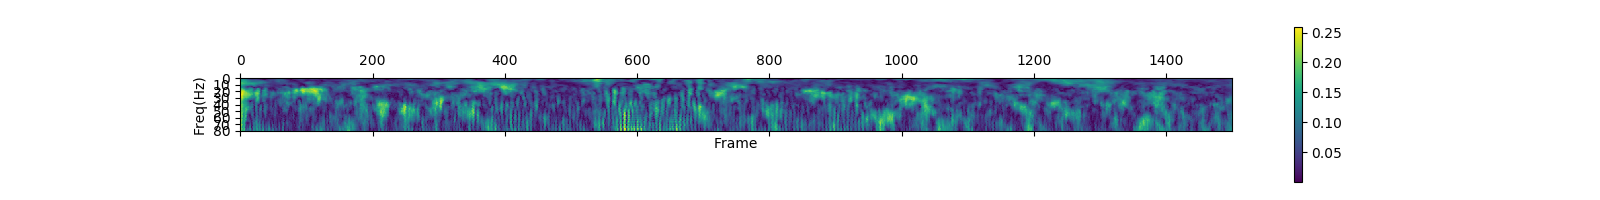
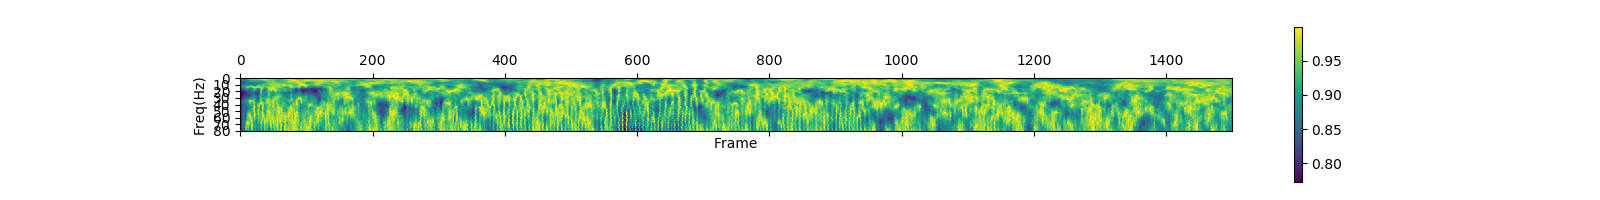
add rayleigh test and edit readme

diff --git a/pyplfv/plf.py b/pyplfv/plf.py
@@ -6,15 +6,32 @@ Please see the document if you want more details.
 
 import numpy as np
 from data_structures import EEGData
+
 '''
-TODO implement test
 To test whether an activity is significantly phase-locked to stimulus onset,
 a statistical test (Rayleigh test) of uniformity of angle is used (Jervis et al., 1983)
 http://q-bio.jp/images/5/53/角度統計配布_qbio4th.pdf
 http://www.neurophys.wisc.edu/comp/docs/not011/not011.html
 https://docs.scipy.org/doc/scipy-0.14.0/reference/generated/scipy.stats.rayleigh.html
+http://webspace.ship.edu/pgmarr/Geo441/Lectures/Lec%2016%20-%20Directional%20Statistics.pdf
+
+R := The averaged
+Z := n * (R^2)
 '''
 
+def rayleigh_p(Z, n):
+    Z_2 = np.power(Z, 2.0)
+    Z_3 = np.power(Z, 3.0)
+    Z_4 = np.power(Z, 4.0)
+    n_2 = np.power(n, 2.0)
+    f_term = 1.0
+    s_term = (2.0 * Z - Z_2) / (4.0 * n)
+    t_term  = (24.0 * Z - 132.0 * Z_2 + 76.0 * Z_3 - 9.0 * Z_4) / (288.0 * n_2)
+    return  np.exp(-Z) * (f_term + s_term - t_term)
+
+'''
+Wavelet and parameters of that.
+'''
 def gen_parameters(f, debug=False):
     '''
     Constant ratio f0/sigma_f = 7
@@ -95,6 +112,8 @@ Leadning to a complex value describing the phase distribution of the time-frew r
 start_time_of_trials : the index of start timing of trials on signal array
 offset: How many frame are considered to have relevant with trials before that.
 length: How many frame are considered to have relevant with trials.
+
+plf returns the normalized_tve_average and p values about it.
 '''
 
 def plf(signal, time_interval, f0, start_time_of_trials, offset, length, debug=False):
@@ -106,31 +125,64 @@ def plf(signal, time_interval, f0, start_time_of_trials, offset, length, debug=F
         sig = signal[trial + offset : trial + offset + length]
         normalized_tve_average += normalized_tve(sig, time_interval, f0) / len(start_time_of_trials)
 
-    #Transform to the modules of these complex values.
-    return np.abs(normalized_tve_average)
+    ## testing these p value
+    p_arr = []
+    n = len(start_time_of_trials)
+    for i in range(length):
+        R = np.abs(normalized_tve_average[i])
+        Z = n * np.power(R, 2.0)
+        p = rayleigh_p(Z, n)
+        p_arr.append(p)
+
+    return [np.abs(normalized_tve_average), np.array(p_arr)]
 
 def plf_with_farray(signal, time_interval, farray, start_time_of_trials, offset, length, debug=False):
 
-    res_arr = []
+    plf_arr, p_arr = [[], []]
     for f in farray:
-        res_arr.append(plf(signal, time_interval, f, start_time_of_trials, offset, length, debug))
-    return res_arr
+        _plf, _p = plf(signal, time_interval, f, start_time_of_trials, offset, length, debug)
+        plf_arr.append(_plf)
+        p_arr.append(_p)
+    return [plf_arr, p_arr]
 
-def show_plf_spectgram(eeg_data, sig_name, trial_marker, farray, offset, length, save=False, filename='~/plf.png'):
-    sig = eeg_data.signals[sig_name]
-    import matplotlib.pyplot as plt
+def show_plf_spectgram(sig, time_interval, start_time_of_trials, farray, offset, length, show_p=False, save=False, filename='.plf.png'):
 
-    _plf = plf_with_farray(sig,
-                          eeg_data.properties.sampling_interval / 1000000,
+    _plf, _ps = plf_with_farray(sig,
+                          time_interval,
                           farray,
-                          [eeg_data.markers[i].position for i in range(len(eeg_data.markers)) if eeg_data.markers[i].description == trial_marker],
+                          start_time_of_trials,
                           offset,
                           length)
-    plt.matshow(_plf)
-    plt.xlabel('Frame')
-    plt.ylabel('Freq(Hz)')
-    plt.colorbar()
-    if save:
-        plt.savefig(filename)
-    plt.show()
-    return np.array(_plf)
+    import matplotlib.pyplot as plt
+    if show_p:
+        fig, (axu, axl) = plt.subplots(nrows=2, figsize=(10,5))
+        matu =  axu.matshow(_plf)
+        axu.set_title('PLF')
+        axu.set_xlabel('Frame')
+        axu.set_ylabel('Freq(Hz)')
+        #axu.colorbar()
+
+        matl = axl.matshow(_ps)
+        axl.set_title('P values')
+        axl.set_xlabel('Frame')
+        axl.set_ylabel('Freq(Hz)')
+
+        fig.subplots_adjust(right=0.8)
+        cbar_ax = fig.add_axes([0.85, 0.15, 0.05, 0.7])
+        fig.colorbar(matu, cbar_ax)
+        if save:
+            plt.savefig(filename)
+        plt.show()
+    else:
+        plt.matshow(_plf)
+        plt.colorbar()
+        plt.xlabel('Frame')
+        plt.ylabel('Freq')
+        plt.show()
+    return [np.array(_plf), np.array(_ps)]
+
+def show_plf_spectgram_from_eeg(eeg_data, sig_name, trial_marker, farray, offset, length, show_p=False, save=False, filename='./plf.png'):
+    sig = eeg_data.signals[sig_name]
+    start_time_of_trials = [eeg_data.markers[i].position for i in range(len(eeg_data.markers)) if eeg_data.markers[i].description == trial_marker]
+    time_interval = eeg_data.properties.sampling_interval / 1000000
+    return show_plf_spectgram(sig, time_interval, start_time_of_trials, farray, offset, length, show_p, save, filename)

diff --git a/pyplfv/plf_samples.py b/pyplfv/plf_samples.py
@@ -14,8 +14,8 @@ print(eeg_data.markers)
 #print(eeg_data.signals)
 print(eeg_data.properties.sampling_interval) #microsec
 
-from plf import show_plf_spectgram
-show_plf_spectgram(eeg_data, 'Cz', 'S255', [1.0 * i for i in range(20,101)], int(-1.0 / 0.002), int(3 / 0.002), True, './Images/plf.png')
+from plf import show_plf_spectgram_from_eeg
+_plf, _ps = show_plf_spectgram_from_eeg(eeg_data, 'Cz', 'S255', [1.0 * i for i in range(20,101)], int(-1.0 / 0.002), int(3 / 0.002), False, './Images/plf.png')
 '''
 
 '''
@@ -32,11 +32,22 @@ for f in np.arange(100, 200.0, 100.0):
 '''
 
 
-matdata = sio.loadmat('SampleData/siulation_50Hz.mat')
+# not from eeg data sample
+matdata = sio.loadmat('SampleData/simulation_data1.mat')
 trial_num = len(matdata['seg'][0])
 arr = np.array(matdata['seg'], dtype='float128')
 arr = arr.T
 sig = np.hstack([arr[i] for i in range(trial_num)])
+time_interval = 0.002
+farray = [1.0 * i for i in range(4,100)]
+start_time_of_trials = [750 * i for i in range(trial_num)]
+offset = 0
+length = int(1.5 / 0.002)
+
+from plf import show_plf_spectgram
+
+_plf, _ps = show_plf_spectgram(sig, time_interval, start_time_of_trials, farray, offset, length, True, True, 'Images/plf_and_p_10Hz.png')
+
 
 #show data
 '''
@@ -54,55 +65,4 @@ plt.show()
 ave = np.zeros((96, 750))
 for i in range(100):
     ave += tve_with_farray(arr[i], 0.002, [1.0 * i for i in range(4,100)]) / 100.0
-'''
-
-# Sample
-#def plf_with_array(signal, time_interval, farray, start_time_of_trials, length_before_start, length_after_start, debug=False):
-'''
-time_interval = 0.002
-farray = [1.0 * i for i in range(4,100)]
-start_time_of_trials = [750 * i for i in range(trial_num)]
-length_before_start = 0
-length_after_start = 1.5
-
-_plf = plf_with_farray(sig,
-                      time_interval,
-                      farray,
-                      start_time_of_trials,
-                      length_before_start,
-                      length_after_start)
-plt.matshow(_plf, vmin=0, vmax=1.0)
-#plt.matshow(ave)
-plt.colorbar()
-plt.xlabel('Frame')
-plt.ylabel('Freq - 4 (Hz)')
-plt.savefig('./Images/plf_simulation2.png')
-plt.show()
-'''
-
-#Samples
-#normalized_tve_with_farray
-'''
-ave = np.zeros((96, 750), dtype='complex128')
-for i in range(100):
-    v = normalized_tve_with_farray(arr[i], 0.002, [1 * i for i in range(4,100)])
-    #print(v.shape)
-    ave += v / 100.0
-ave = np.abs(ave)
-#print(type(ave[0][0]))
-
-plt.matshow(ave, vmin=0, vmax=1.0)
-#plt.matshow(ave)
-plt.colorbar()
-plt.xlabel('Frame')
-plt.ylabel('Freq - 4 (Hz)')
-#plt.savefig('./Images/plf_simulation.png')
-plt.show()
-
-plt.matshow(ave - np.abs(matdata['PLF'][3:99]), vmin=0, vmax=1.0)
-plt.colorbar()
-plt.xlabel('Frame')
-plt.ylabel('Freq - 1 (Hz)')
-plt.savefig('./Images/plf_simulation.png')
-plt.show()
 '''

diff --git a/README.md b/README.md
@@ -1,7 +1,7 @@
 # pyplfv
 
 Python package to process EEG data from BrainVision's 'Analyzer' and 'Recorder'.
-Still in development and not packaged.  
+Still in development.  
 I will develop testings on next update.
 
 ## Installation
@@ -42,14 +42,15 @@ Please see the document if you want more details.
 <br>
 There is an information about 'sig_name' in Appendix.  
 'trial_marker' is a marker you decided to represent the start of the trials.  
-show_plf_spectgram returns plf matrix which is type of numpy.array.
-
+show_plf_spectgram returns plf matrix and p values matrix which are type of numpy.array.  
+The p values are calculated to test whether an activity is significantly phase-locked to stimulus onset,  
+a statistical test (Rayleigh test) of uniformity of angle is used (Jervis et al., 1983)  
 
 ```Python
 
 from plf import show_plf_spectgram
-#def show_plf_spectgram(eeg_data, sig_name, trial_marker, farray, offset, length, save=False, filename='plf.png')
-plfs = show_plf_spectgram(eeg_data, 'Cz', 'S255', [1.0 * i for i in range(20,101)], -500, 1500, True, 'Images/plf.png')
+#def show_plf_spectgram_from_eeg(eeg_data, sig_name, trial_marker, farray, offset, length, show_p=False, save=False, filename='./plf.png'):
+plfs, ps = show_plf_spectgram(eeg_data, 'Cz', 'S255', [1.0 * i for i in range(20,101)], -500, 1500, True, True, 'Images/plf.png')
 
 ```
 
@@ -58,36 +59,28 @@ Other example,
 ```Python
 matdata = sio.loadmat('SampleData/siulation_50Hz.mat')
 trial_num = len(matdata['seg'][0])
-arr = np.array(matdata['seg'], dtype='float128').T
+arr = np.array(matdata['seg'], dtype='float128')
+arr = arr.T
 sig = np.hstack([arr[i] for i in range(trial_num)])
 time_interval = 0.002
 farray = [1.0 * i for i in range(4,100)]
 start_time_of_trials = [750 * i for i in range(trial_num)]
-length_before_start = 0
-length_after_start = 1.5
+offset = 0
+length = int(1.5 / 0.002)
 
-_plf = plf_with_farray(sig,
-                      time_interval,
-                      farray,
-                      start_time_of_trials,
-                      length_before_start,
-                      length_after_start)
-plt.matshow(_plf, vmin=0, vmax=1.0)
-#plt.matshow(ave)
-plt.colorbar()
-plt.xlabel('Frame')
-plt.ylabel('Freq - 4 (Hz)')
-plt.savefig('./Images/plf_simulation2.png')
-plt.show()
+from plf import show_plf_spectgram
+#def show_plf_spectgram(sig, time_interval, start_time_of_trials, farray, offset, length, show_p=False, save=False, filename='.plf.png'):
+plfs, ps = show_plf_spectgram(sig, time_interval, start_time_of_trials, farray, offset, length, show_p=True)
 
 ```
 
 <br>
 
-| Pseudo random added 10Hz gaussian | Pseudo random added 50Hz gaussian |  
-|-----------------------------------|-----------------------------------|
-| <img src="./Images/data1.png" width=400>  | <img src="./Images/data50Hz.png" width=400> |
-|  </img><img src="./Images/plf_simulation1.png" width=400></img>   |  </img><img src="./Images/plf_simulation50Hz.png" width=400></img>   |
+|         | Pseudo random added 10Hz gaussian | Pseudo random added 50Hz gaussian |  
+|-------------------|-----------------------------------|-----------------------------------|
+| signals           | <img src="./Images/data1.png" width=400>  | <img src="./Images/data50Hz.png" width=400> |
+| PLF |  </img><img src="./Images/plf_simulation1.png" width=400></img>   |  </img><img src="./Images/plf_simulation50Hz.png" width=400></img>   |
+| PLF /w p values   |  </img><img src="./Images/plf_and_p_10Hz.png" width=400></img>   |  </img><img src="./Images/plf_and_p_50Hz.png" width=400></img>   |
 
 <br>
 
